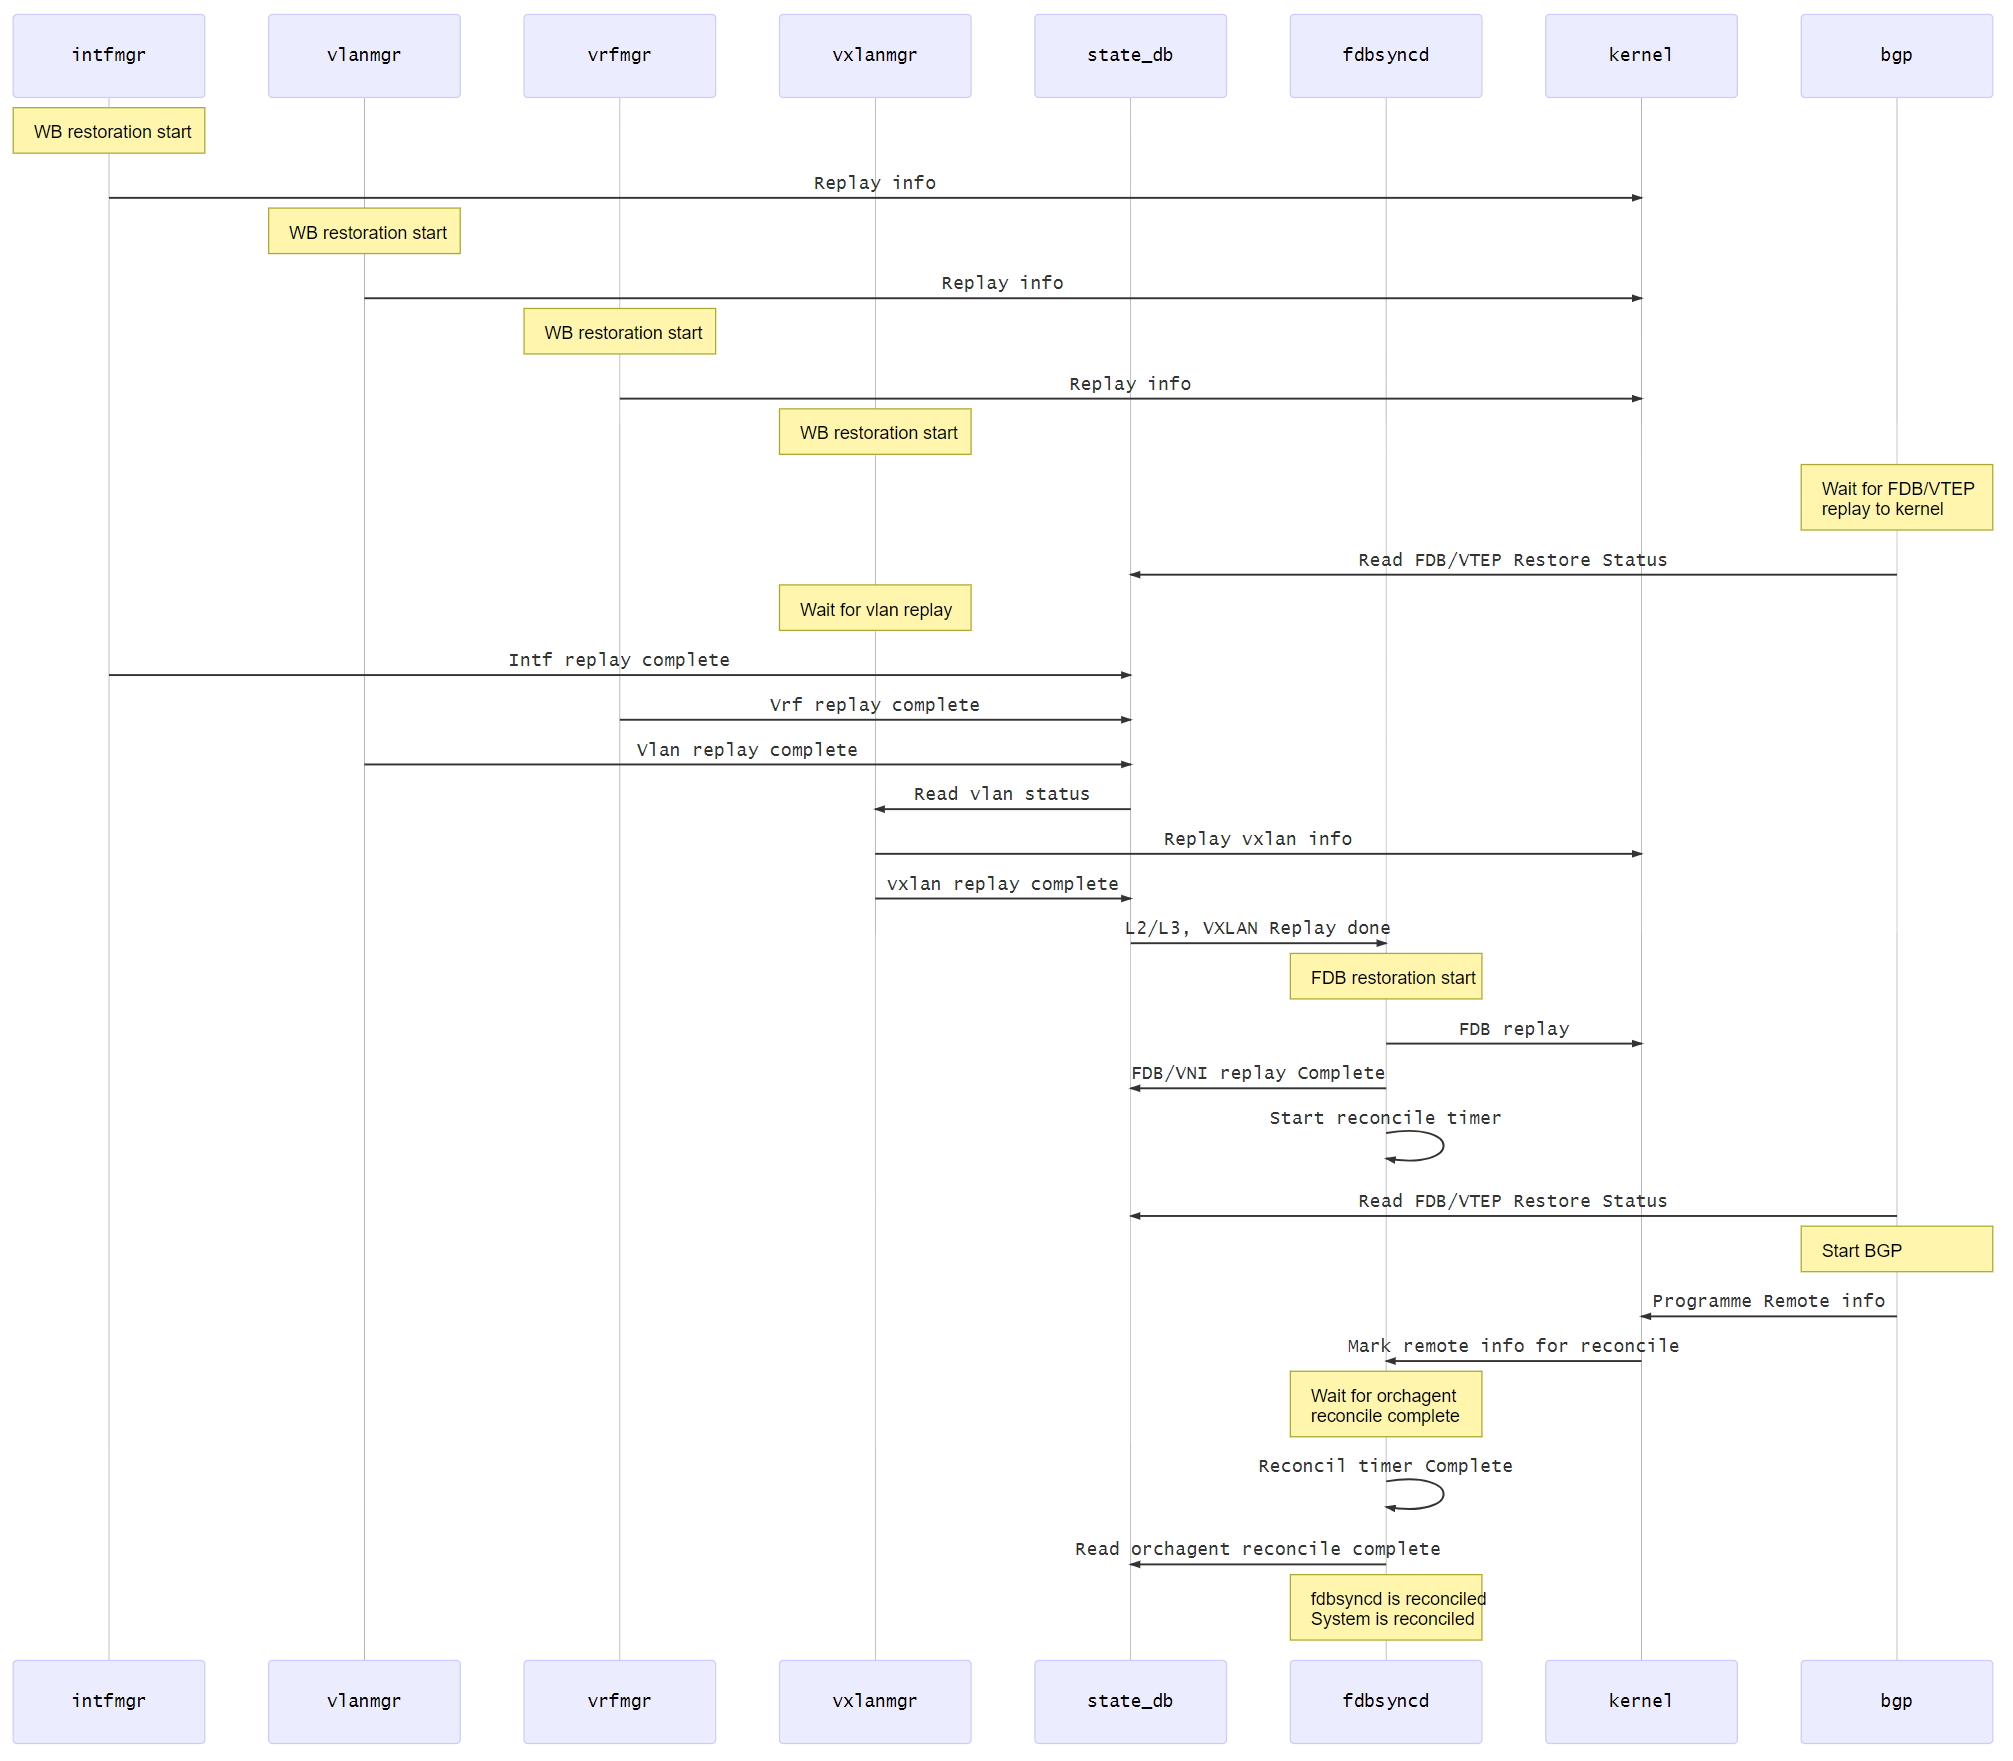
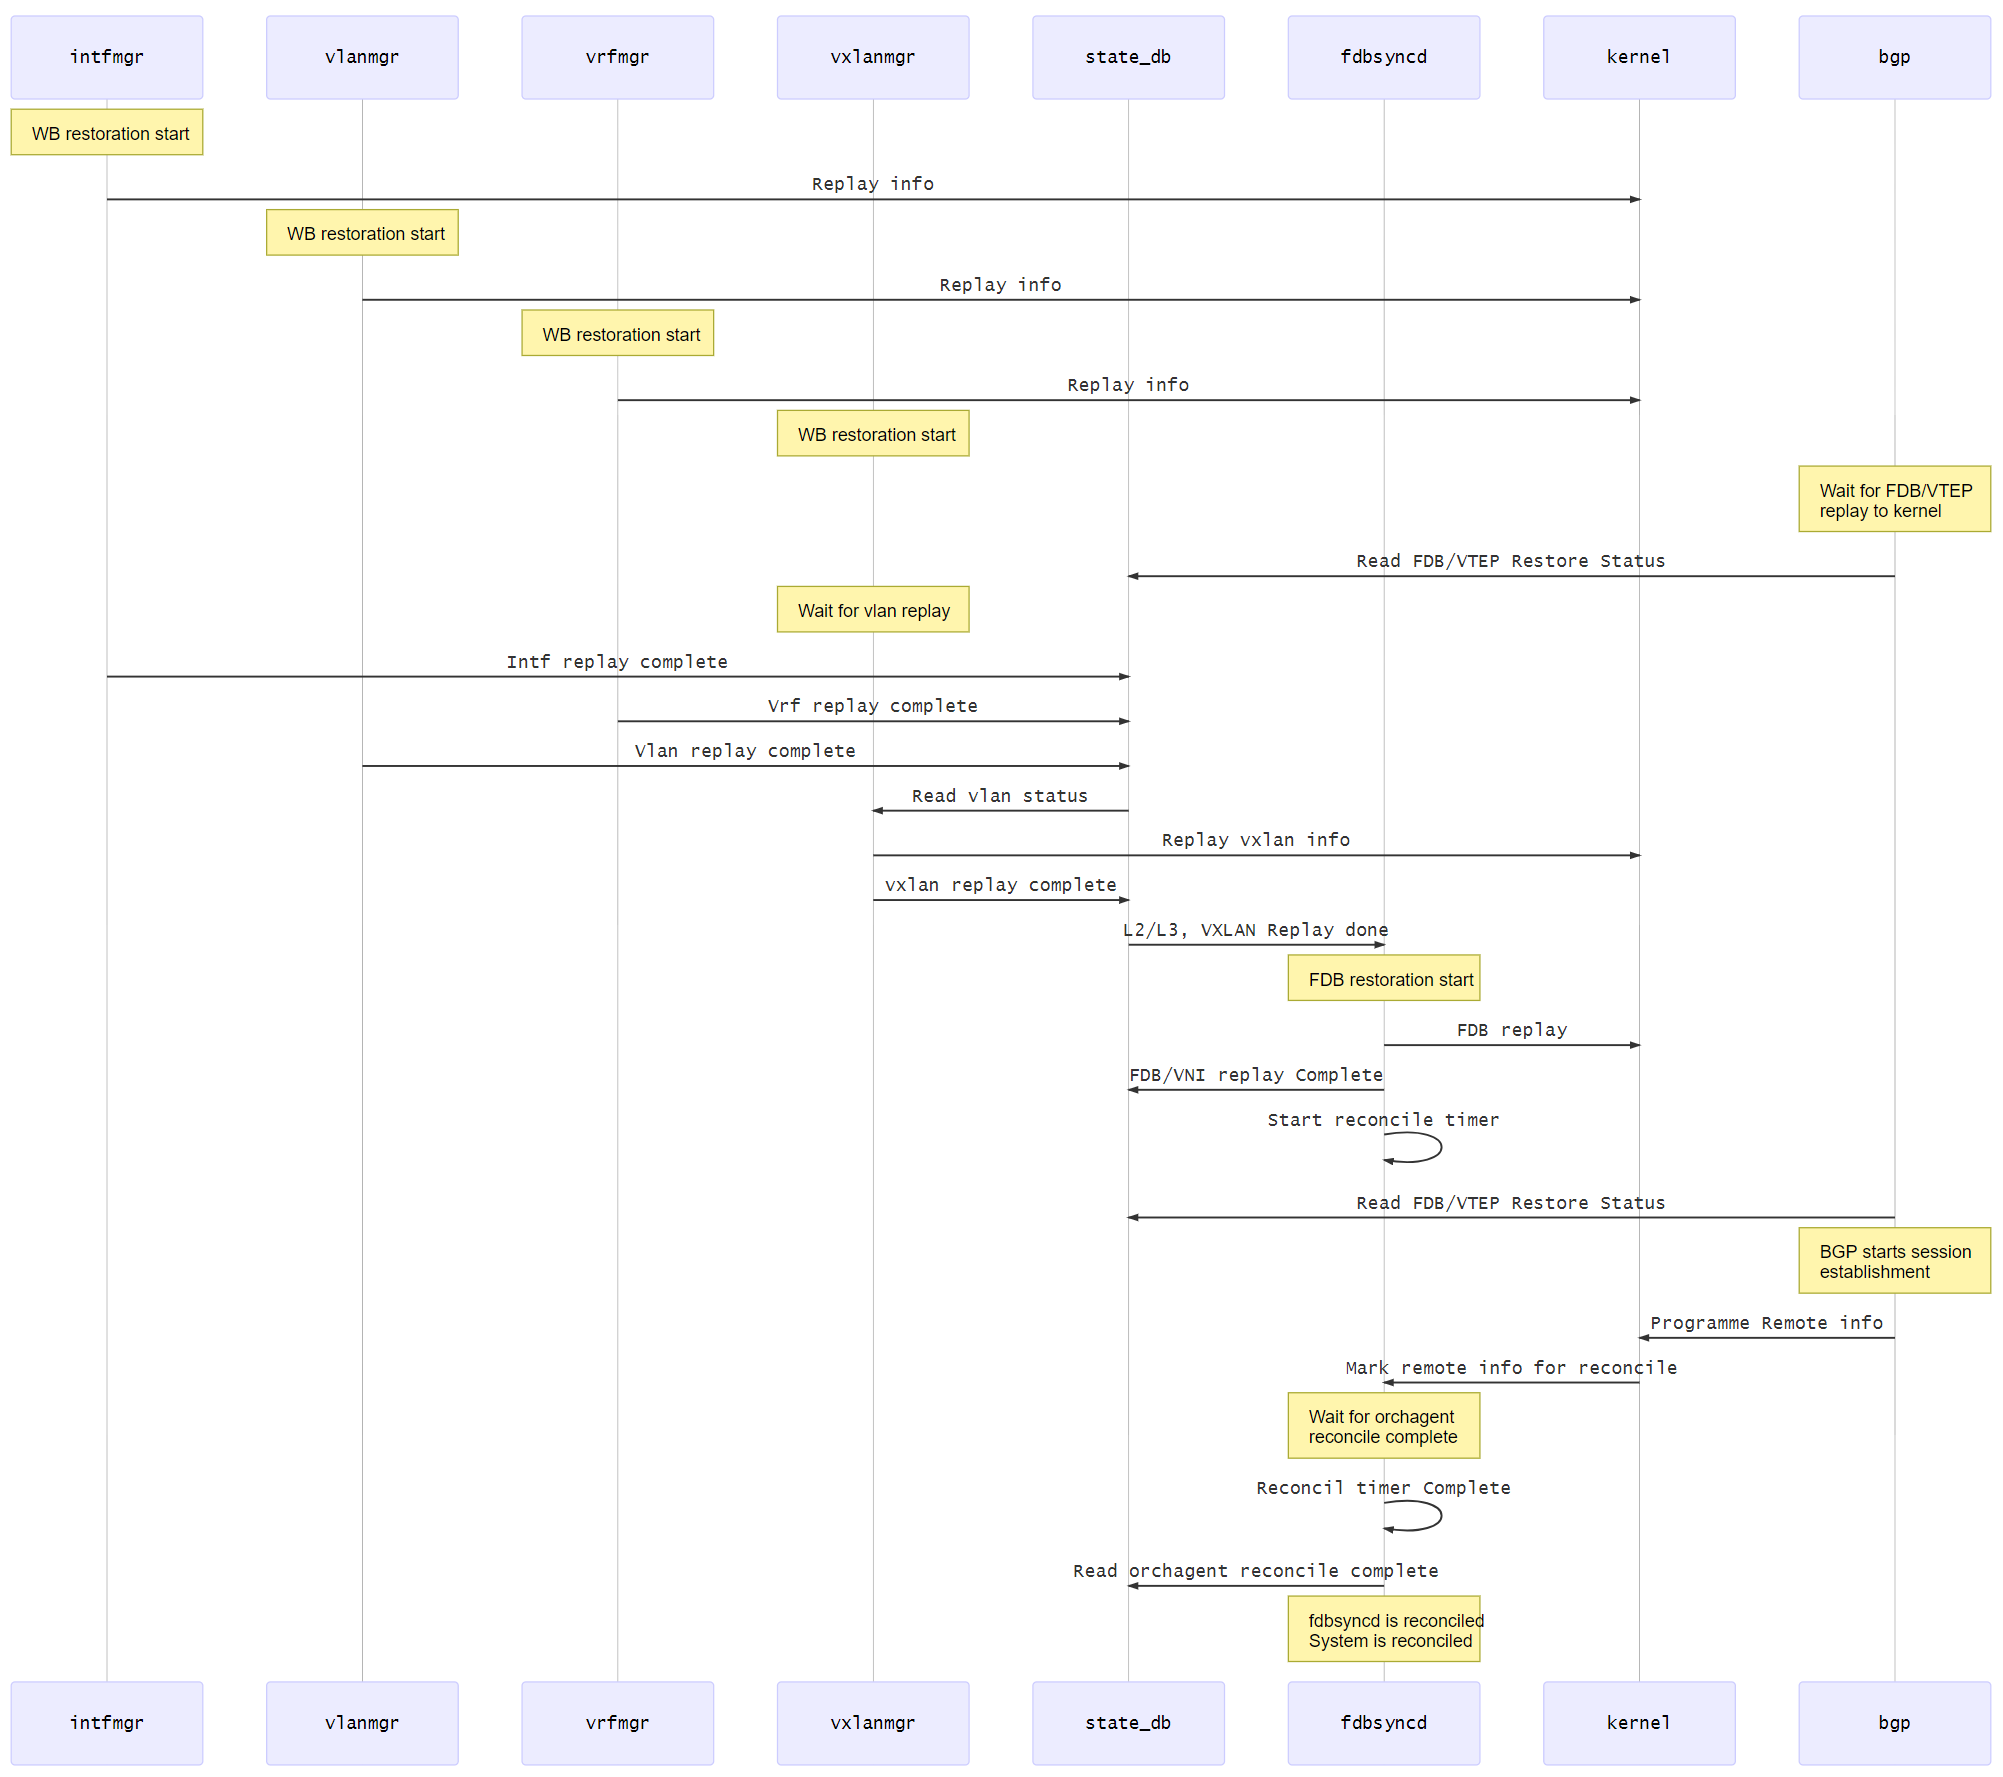
Incorporated warmboot review comments

diff --git a/doc/vxlan/EVPN/EVPN_VXLAN_HLD.md b/doc/vxlan/EVPN/EVPN_VXLAN_HLD.md
@@ -138,6 +138,8 @@ The following aspects are outside the scope of this document.
 - Multi-homing support described in the EVPN RFCs.
 
 
+
+
 # 2 Feature Requirements
 
 ## 2.1 Functional Requirements
@@ -194,6 +196,7 @@ Warm reboot is intended to be supported for the following cases:
 - Planned system warm reboot. 
 - Planned SwSS warm reboot.
 - Planned FRR warm reboot.
+
 
 
 # 3 Feature Description
@@ -1091,7 +1094,7 @@ Linux kernel version 4.9.x used in SONiC requires backport of a few patches to s
 
 5. show vxlan remote_mac <remoteip/all> 
    - lists all the MACs learnt from the specified remote ip or all the remotes for all vlans. (APP DB view) 
-   - VLAN, MAC, RemoteVTEP, VNI, Type are the columns.
+   - VLAN, MAC, RemoteVTEP,  VNI,  Type are the columns.
 
    show vxlan remote_mac all
    +---------+-------------------+--------------+-------+--------+
@@ -1266,11 +1269,25 @@ __Figure 16: System Warm reboot and reconciliation sequence__
 
 During the system warm-reboot restoration/reconciliation, the fdbsyncd is dependent on Intf, Vlan, Vrf, Vxlan Mgrs to complete their data restoration to kernel. Before fdbsyncd can program the MACs to the kernel it needs to wait for these subsystems data replay to kernel. Without this the kernel programming for fdbsyncd will fail.  Subsequently if the FDB/VTEP info is not available in kernel/zebra for BGP to distribute to its peers, it will converge with premature info causing data-loss. To solve this dependency , we use a replay-done notification by each subsystem. The notification is passed between the subsystems by using the existing  WARM_RESTART_TABLE. A new state "replayed" in the data restoration flow  ( "state" = "replayed") is used by each subsystem to indicate it has replayed its data to kernel.
 
-The dependent subsystems use the WARM_RESTART_TABLE table to wait before attempting to program their info to the kernel.   fdbsyncd replays its info to kernel only after the data is replayed for Intf, Vlan, Vxlan and Vrf Mgrs.  BGP is configured/started only when FDB has replayed all its data to kernel. 
+The dependent subsystems use the WARM_RESTART_TABLE table to wait before attempting to program their info to the kernel.   fdbsyncd replays its info to kernel only after the data is replayed for Intf, Vlan, Vxlan and Vrf Mgrs.  BGP starts the session establishment with peers only when FDB has replayed all its data to kernel. 
 
 There is also a requirement that the app_db entries are not modified by *syncd subsystems until the orchagent has reconciled its data after warm-reboot. To achieve this dependency, the *syncd applications which write data to the app_db wait till orchagent reports "reconciled" status in the WARM_RESTART_TABLE.
 
 fpmsyncd and fdbsyncd also need to wait for some time for the BGP protocol to converge and populate the routing info from peers, before they can reconcile their respective app_db entries. Hence they start a fixed 120 seconds timer once BGP is started. Once this timer expires and orchagent is reconciled, they start the app_db reconciliation process.
+
+
+
+In summary -
+
+Before BGP can start neighbor establishment it waits for below subsystems.
+
+BGP			  :  depends on data replay from fdbsyncd to kernel   
+
+fdbsyncd 	:  depends on data replay from intfMgr, vlanMgr, vxlanMgr, VrfMgr  to kernel
+
+vxlan  		  :  depends on data replay from vlanMgr to kernel
+
+Once BGP sessions are established,  fdbsyncd waits for its own reconciliation timer to expire and also for orchagent to reach reconciled state before it can sweep/update its own app_db tables to complete reconciliation process.
 
 The below detailed sequence diagram explains the interaction during the restore, replay and reconcile phase.
 
@@ -1278,7 +1295,9 @@ The below detailed sequence diagram explains the interaction during the restore,
 
 __Figure 17: Warm reboot replay sequence__
 
-To achieve this dependency new states "replayed", "reconciled"  and "disabled" are added to the WARM_RESTART_TABLE  table in STATE_DB.  The value "disabled" is set when the subsystems perform a cold restart.
+**Note**: This dependence check is required for the EVPN warm-reboot processing. Hence the dependency check will be done only when EVPN is configured.
+
+To achieve this dependency new states "replayed", "reconciled"  and "disabled" are added to the WARM_RESTART_TABLE  table in STATE_DB.  The value "disabled" is set when the subsystems perform a cold restart. The value "unknown" is returned as status for the subsystem when it has not read and initialized the warm-reboot status for self. This way the caller can know that the status is not set yet and it needs to retry before making any dependency decision.
 
 Producer: multiple producers
 
@@ -1286,7 +1305,7 @@ Consumer: multiple consumers
 
 Description:
 
-- Value "replayed" "reconciled"  and "disabled" are added to the existing "state" variable.
+- Value "unknown" "replayed" "reconciled"  and "disabled" are added to the existing "state" variable.
 
 Schema:
 
@@ -1295,22 +1314,28 @@ Schema:
 key             = WARM_RESTART_TABLE|<application_name>   
 ; field         = value
 restore_count   = number    ;uint32
-state           = "restored"/"replayed"/"reconciled"/"disabled" 
+state           = "unknown"/"restored"/"replayed"/"reconciled"/"disabled" 
 ```
+
+Below are  two possible state transitions for subsystems based on if they restarted with cold or warm-reboot.
+
+Cold reboot :   "unknown" >> "disabled"
+
+Warm reboot : "unknown" >> "initialized" >> "restored" >> "replayed" >> "reconciled"
 
 **Configuration for EVPN  Warm reboot** 
 
 To support EVPN Warm reboot, system warm reboot must be enabled and BGP-GR must be configured for BGP on all the BGP peer nodes.
 
-The BGP GR restart and stale-path timers have a default value of 240 seconds and 720 seconds respectively.  To scale the system higher, these values may need to be tuned .  The restart timer should be long enough for the system to warm reboot ,  the IP connectivity to be re-established in the control plane and the data replay of the subsystems to the kernel to be complete.
+The BGP GR restart and stale-path timers have a default value of 120 seconds and 360 seconds respectively.  To scale the system higher and to handle the wait for EVPN dependency check , these values need to be increased when EVPN is configured.  The restart timer should be long enough for the system to warm reboot ,  the IP connectivity to be re-established in the control plane and the data replay of the subsystems to the kernel to be complete. 
 
 ```
 BGP GR configuration for FRR
 router bgp <AS-NUM>
  bgp graceful-restart
  bgp graceful-restart preserve-fw-state
- bgp graceful-restart stalepath-time 600  ( default 720)
- bgp graceful-restart restart-time 300    ( default 240)
+ bgp graceful-restart stalepath-time 720 ( example)
+ bgp graceful-restart restart-time 240 ( example)
 ```
 
 
